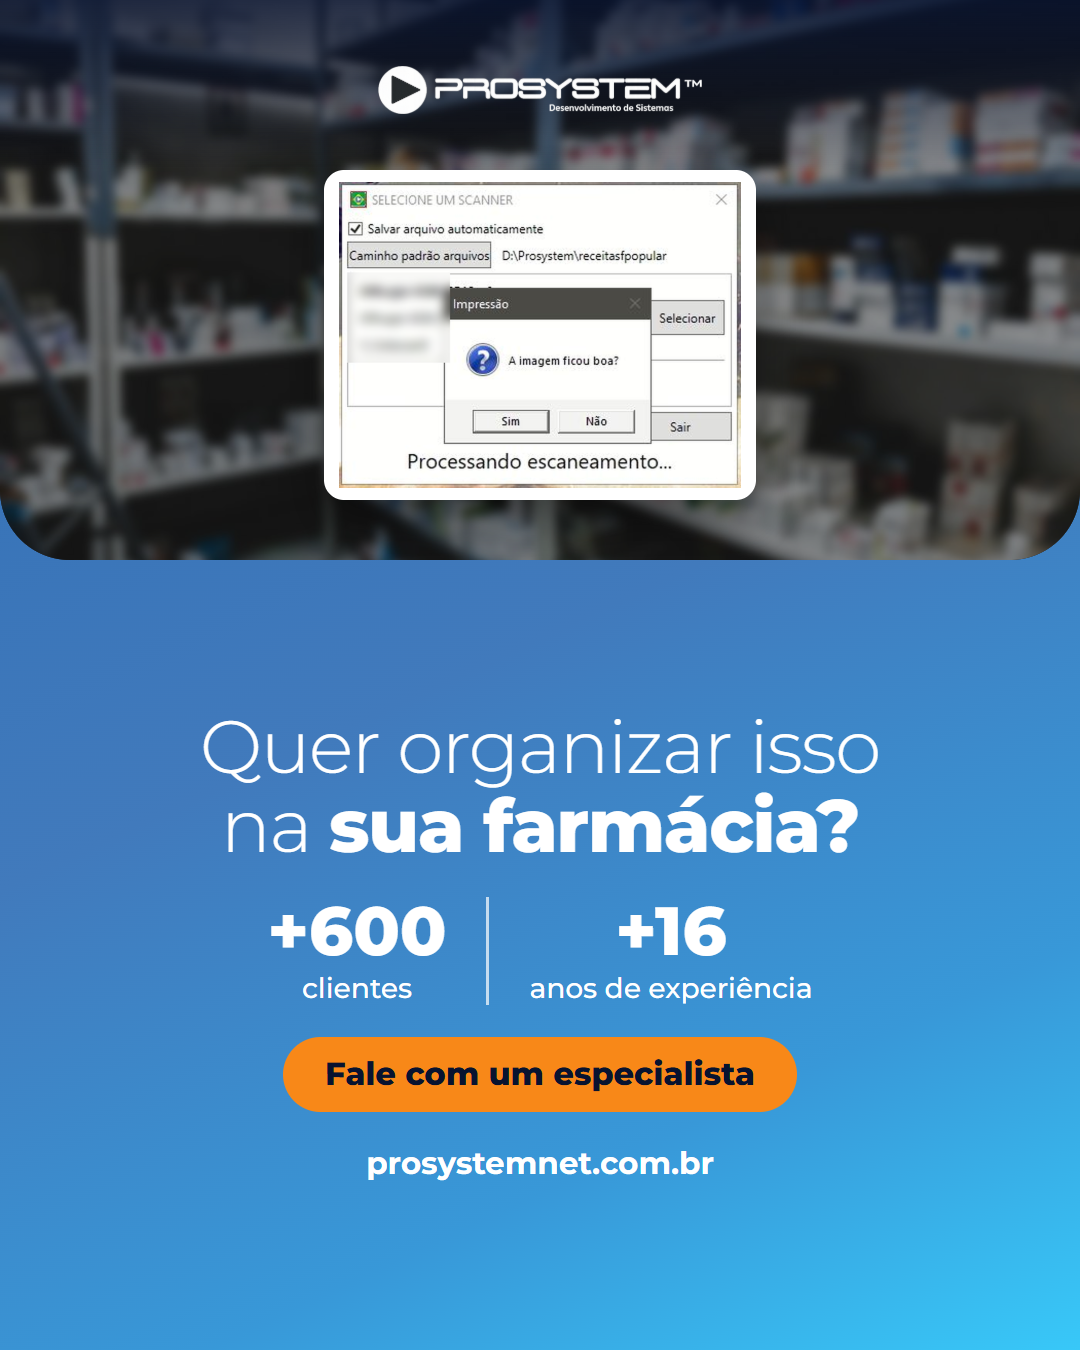
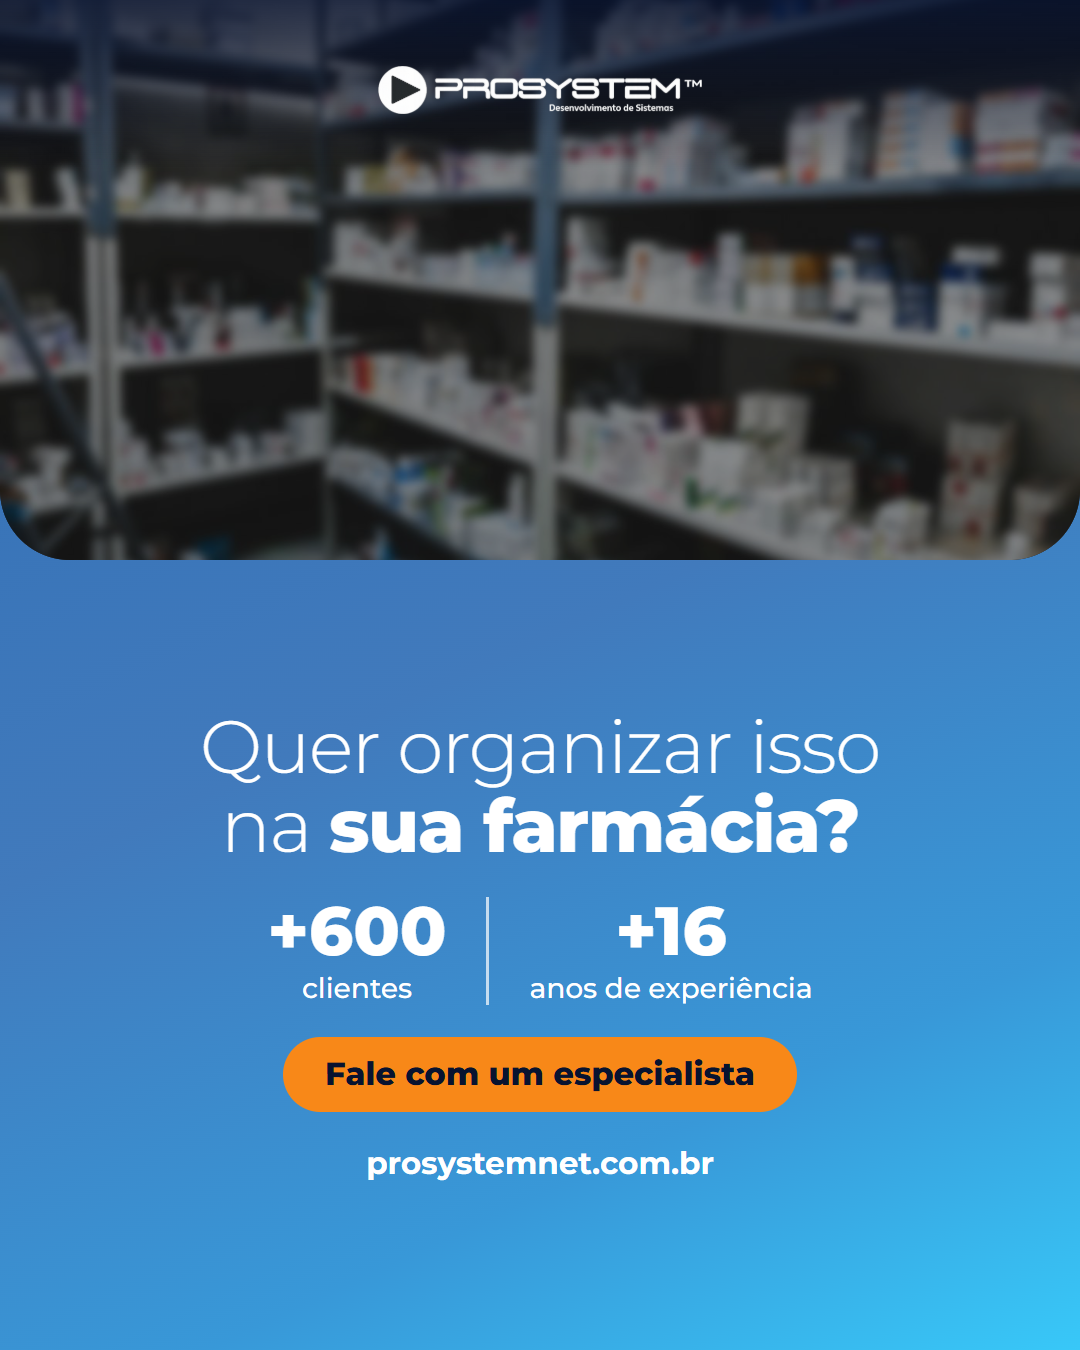
Carrossel da Farmácia Popular: tela do scanner só no slide 5, sem tela na capa e no slide 6

Changed region(s): [[0.275, 0.1244, 0.7028, 0.4044]]

diff --git a/outputs/criativos/nov-dez/pecas-dados.js b/outputs/criativos/nov-dez/pecas-dados.js
@@ -156,18 +156,18 @@ ${CTA}`,
   conferir: ['Produto: a função vale sem ajuste na padaria?', 'A tela de registro tem "centro de custo" e um lançamento de gasolina: conferir no mockup.'] },
 
 { data: 'Seg 07/12', seg: 'Farmácia', id: 'carrossel-farmacia-popular-v2', tipo: 'v2', tema: 'azul', formato: 'Carrossel V2',
-  capa: { foto: 'pressao-mesa', tela: 'receitas-scanner', titulo: 'Farmácia Popular: multa de <b>até 20%.</b>', apoio: 'As regras mudaram em agosto.' },
+  capa: { foto: 'pressao-mesa', titulo: 'Farmácia Popular: multa de <b>até 20%.</b>', apoio: 'As regras mudaram em agosto.' },
   itens: [
     { foto: FOTO_PR, titulo: 'A fiscalização ficou <b>automática.</b>', apoio: 'O monitoramento separa por risco e pode suspender a farmácia antes.' },
     { foto: 'calculadora', titulo: 'A multa <b>cresceu.</b>', apoio: 'O teto era 10% sobre 3 meses. Agora é 20%, e a base pode ser de 12 meses.' },
     { foto: 'maos-teclado-mesa', titulo: 'Guarde por <b>5 anos.</b>', apoio: 'De preferência em meio digital. Antes eram 10 anos.' },
   ],
   sol: { foto: FOTO_PR, tela: 'receitas-scanner', titulo: 'Receita guardada, sem pilha de caixa', apoio: 'O Prosystem digitaliza as receitas do programa e guarda em mídia externa ou nuvem.' },
-  fim: { foto: FOTO_PR, tela: 'receitas-scanner', titulo: 'Quer organizar isso na <b>sua farmácia?</b>' },
+  fim: { foto: FOTO_PR, titulo: 'Quer organizar isso na <b>sua farmácia?</b>' },
   kw: 'Farmácia Popular',
   cap: `Farmácia Popular: novas regras, multa maior e fiscalização automática. Sua farmácia está preparada para 2027?\n\nA portaria de agosto subiu a multa máxima para 20%, e a base pode ser a venda dos últimos 12 meses. Os documentos agora ficam guardados por 5 anos, de preferência em meio digital.\n\nNo Prosystem, o scanner de receitas digitaliza o que você precisa guardar.\n\n${CTA}`,
   tags: '#farmaciapopular #farmacia #gestaodefarmacia #sistemaparafarmacia',
-  alts: ['Tela do scanner de receitas do Prosystem sobre uma medição de pressão, com o título: Farmácia Popular, multa de até 20%.', 'Prateleiras de farmácia e o texto: a fiscalização ficou automática.', 'Calculadora e o texto: a multa cresceu, de 10% para 20%.', 'Mãos digitando em um teclado e o texto: guarde por 5 anos, de preferência em meio digital.', 'Tela do scanner de receitas e o texto: receita guardada, sem pilha de caixa.', 'Tela do scanner de receitas e o convite para organizar isso na farmácia.'],
+  alts: ['Medição de pressão, com o título: Farmácia Popular, multa de até 20%.', 'Prateleiras de farmácia e o texto: a fiscalização ficou automática.', 'Calculadora e o texto: a multa cresceu, de 10% para 20%.', 'Mãos digitando em um teclado e o texto: guarde por 5 anos, de preferência em meio digital.', 'Tela do scanner de receitas e o texto: receita guardada, sem pilha de caixa.', 'Prateleiras de farmácia e o convite para organizar isso na farmácia.'],
   conferir: ['Produto: o scanner atende a portaria nova? O artigo da base é antigo.', 'Conferir a portaria no Diário Oficial: uma fonte cita republicação em 24/09.'] },
 
 { data: 'Qui 10/12', seg: 'Padaria', id: 'padaria-combos-v2', tipo: 'comTela', tema: 'lar', formato: 'Estático com tela', fundo: 'forte', nova: true,

diff --git a/docs/contexto/relatorios/2026-11-03-farmacia-popular-aviso-so-slide-5.md b/docs/contexto/relatorios/2026-11-03-farmacia-popular-aviso-so-slide-5.md
@@ -1,0 +1,15 @@
+# 03/11/2026 — Carrossel da Farmácia Popular (farmácia, 07/12): aviso só no slide 5
+
+## Pedido
+"Deixe o aviso apenas no slide 5, tire dos demais."
+
+## Feito
+- `outputs/criativos/nov-dez/pecas-dados.js` (peça `carrossel-farmacia-popular-v2`): tirada a tela `receitas-scanner` da capa e do slide 6. Ela fica só no slide 5 ("Receita guardada, sem pilha de caixa").
+- Textos alternativos dos slides 1 e 6 atualizados para não citar a tela.
+- Regeradas as imagens com `node gerar.js carrossel-farmacia-popular-v2` (`outputs/criativos/nov-dez/pecas/carrossel-farmacia-popular-v2-1.png` a `-6.png`).
+
+## Verificado
+- O gerador rodou sem estouro de texto. Conferi visualmente: capa e slide 6 sem a janela; slide 5 com ela.
+
+## Pendente
+- A tela `receitas-scanner` ainda aguarda o mockup da Jessica (agora só no slide 5).
